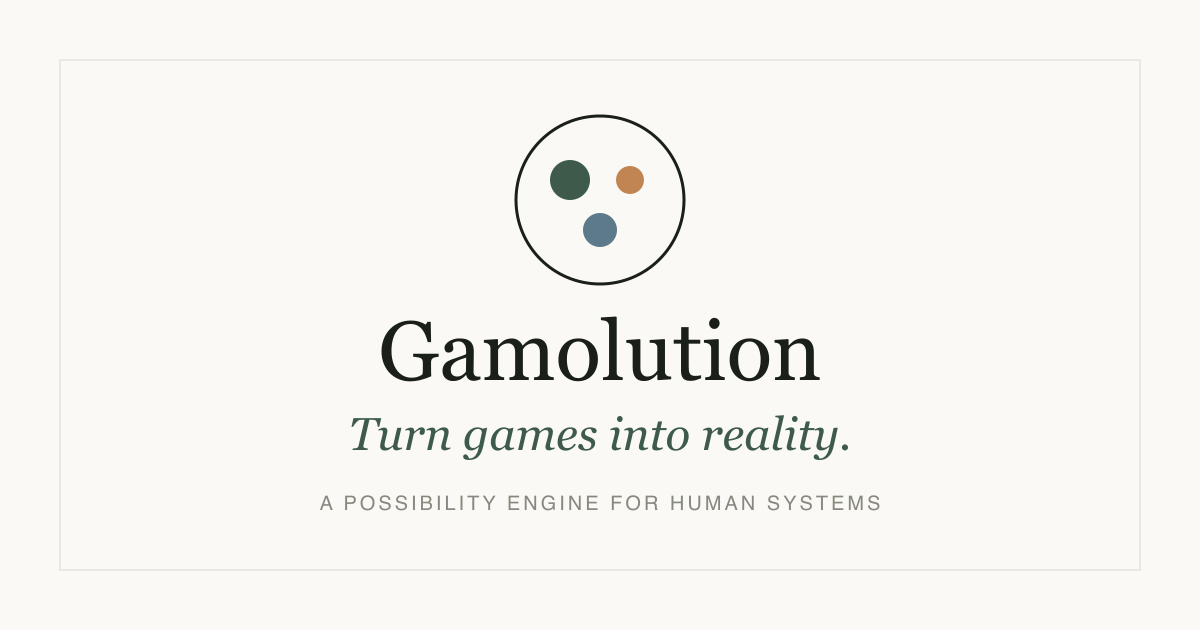
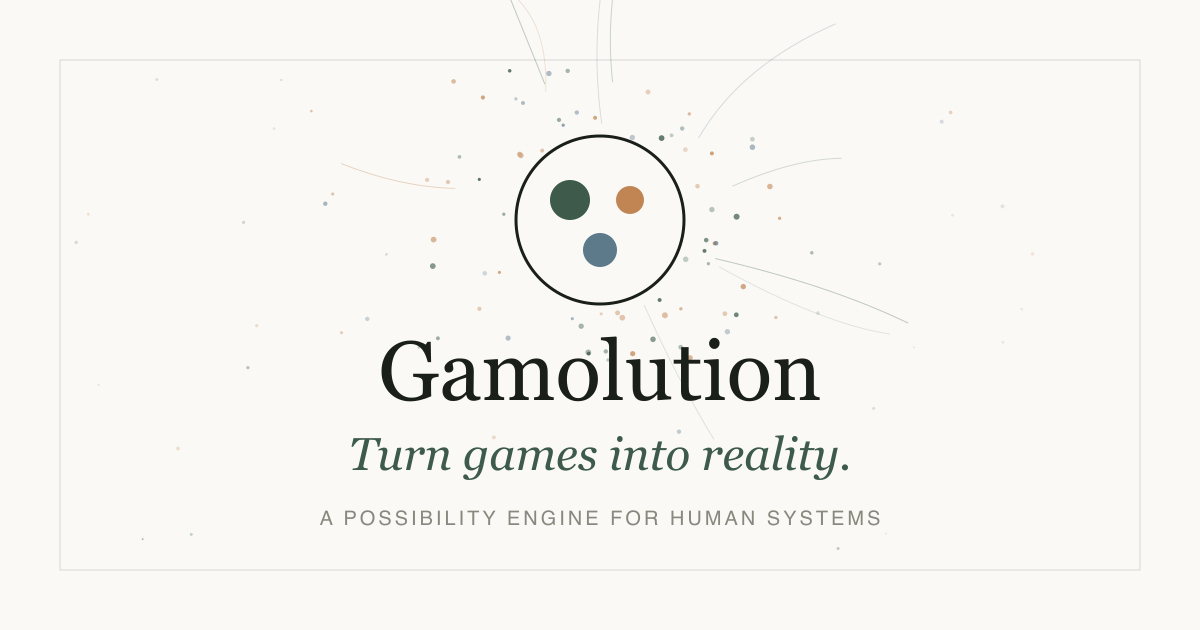
OG image: agent emergence forming the brand mark

diff --git a/scripts/gen-og-image.py b/scripts/gen-og-image.py
@@ -1,0 +1,98 @@
+#!/usr/bin/env python3
+"""Generate og-image.svg with brand mark + agent emergence (dots and motion trails)."""
+import random, math, pathlib
+
+random.seed(42)  # deterministic — same output every run
+
+W, H = 1200, 630
+CX, CY = 600, 220        # mark center
+MARK_R = 84              # mark outer ring radius
+
+SAGE, AMBER, SLATE = "#3d5a4a", "#c08552", "#5d7a8a"
+SAGE_SOFT, AMBER_SOFT, SLATE_SOFT = "#7a9388", "#d4a987", "#92a4b2"
+COLORS = [SAGE, AMBER, SLATE, SAGE_SOFT, AMBER_SOFT, SLATE_SOFT]
+
+# Text exclusion zones (don't put dots/trails on top of typography)
+TEXT_ZONES = [
+    (360, 430, 350, 850),   # wordmark
+    (440, 510, 280, 920),   # tagline
+    (505, 535, 350, 850),   # subtitle
+]
+def in_text_zone(x, y):
+    return any(y0 < y < y1 and x0 < x < x1 for y0, y1, x0, x1 in TEXT_ZONES)
+
+dots, trails = [], []
+
+# Dense halo around mark (just outside the ring)
+for _ in range(70):
+    a = random.uniform(0, 2 * math.pi)
+    dist = random.uniform(MARK_R + 4, 180)
+    x, y = CX + math.cos(a) * dist, CY + math.sin(a) * dist
+    if in_text_zone(x, y): continue
+    dots.append((x, y, random.uniform(1.6, 3.0), random.choice(COLORS), random.uniform(0.4, 0.85)))
+
+# Mid ring (further out)
+for _ in range(60):
+    a = random.uniform(0, 2 * math.pi)
+    dist = random.uniform(180, 320)
+    x, y = CX + math.cos(a) * dist, CY + math.sin(a) * dist
+    if y < 70 or y > 560 or x < 70 or x > 1130: continue
+    if in_text_zone(x, y): continue
+    dots.append((x, y, random.uniform(1.2, 2.4), random.choice(COLORS), random.uniform(0.25, 0.55)))
+
+# Scattered far agents (whole canvas, very sparse)
+for _ in range(50):
+    x, y = random.uniform(70, 1130), random.uniform(70, 560)
+    if in_text_zone(x, y): continue
+    dx, dy = x - CX, y - CY
+    if math.hypot(dx, dy) < 320: continue  # already covered by halo/mid
+    dots.append((x, y, random.uniform(1.0, 2.0), random.choice(COLORS), random.uniform(0.15, 0.4)))
+
+# Motion trails — curved paths flowing from outer ring toward the mark
+for _ in range(14):
+    a = random.uniform(0, 2 * math.pi)
+    sd = random.uniform(240, 330)
+    ed = random.uniform(MARK_R + 12, 150)
+    sx, sy = CX + math.cos(a) * sd, CY + math.sin(a) * sd
+    ex, ey = CX + math.cos(a) * ed, CY + math.sin(a) * ed
+    mx = (sx + ex) / 2 + random.uniform(-28, 28)
+    my = (sy + ey) / 2 + random.uniform(-28, 28)
+    if in_text_zone(sx, sy) or in_text_zone(ex, ey): continue
+    trails.append((sx, sy, mx, my, ex, ey, random.choice(COLORS), random.uniform(0.18, 0.4)))
+
+svg_dots = '\n'.join(
+    f'  <circle cx="{x:.1f}" cy="{y:.1f}" r="{r:.1f}" fill="{c}" opacity="{op:.2f}"/>'
+    for x, y, r, c, op in dots
+)
+svg_trails = '\n'.join(
+    f'  <path d="M{sx:.1f} {sy:.1f} Q{mx:.1f} {my:.1f} {ex:.1f} {ey:.1f}" stroke="{c}" stroke-width="1" fill="none" opacity="{op:.2f}" stroke-linecap="round"/>'
+    for sx, sy, mx, my, ex, ey, c, op in trails
+)
+
+svg = f'''<svg xmlns="http://www.w3.org/2000/svg" width="{W}" height="{H}" viewBox="0 0 {W} {H}">
+  <rect width="{W}" height="{H}" fill="#faf9f6"/>
+
+  <!-- Emergence layer (background) -->
+{svg_trails}
+{svg_dots}
+
+  <!-- Brand mark (foreground, sharp) -->
+  <g transform="translate({CX} {CY})">
+    <circle cx="0" cy="0" r="{MARK_R}" fill="none" stroke="#1a1f1a" stroke-width="3"/>
+    <circle cx="-30" cy="-20" r="20" fill="#3d5a4a"/>
+    <circle cx="30" cy="-20" r="14" fill="#c08552"/>
+    <circle cx="0" cy="30" r="17" fill="#5d7a8a"/>
+  </g>
+
+  <!-- Typography -->
+  <text x="600" y="400" text-anchor="middle" font-family="Georgia, 'Times New Roman', serif" font-size="84" fill="#1a1f1a">Gamolution</text>
+  <text x="600" y="470" text-anchor="middle" font-family="Georgia, 'Times New Roman', serif" font-style="italic" font-size="46" fill="#3d5a4a">Turn games into reality.</text>
+  <text x="600" y="525" text-anchor="middle" font-family="-apple-system, sans-serif" font-size="20" fill="#88897e" letter-spacing="3">A POSSIBILITY ENGINE FOR HUMAN SYSTEMS</text>
+
+  <!-- Subtle frame -->
+  <rect x="60" y="60" width="1080" height="510" fill="none" stroke="#1a1f1a" stroke-width="1" opacity="0.15"/>
+</svg>
+'''
+
+pathlib.Path('og-image.svg').write_text(svg)
+print(f"Generated og-image.svg — {len(dots)} dots, {len(trails)} trails")
